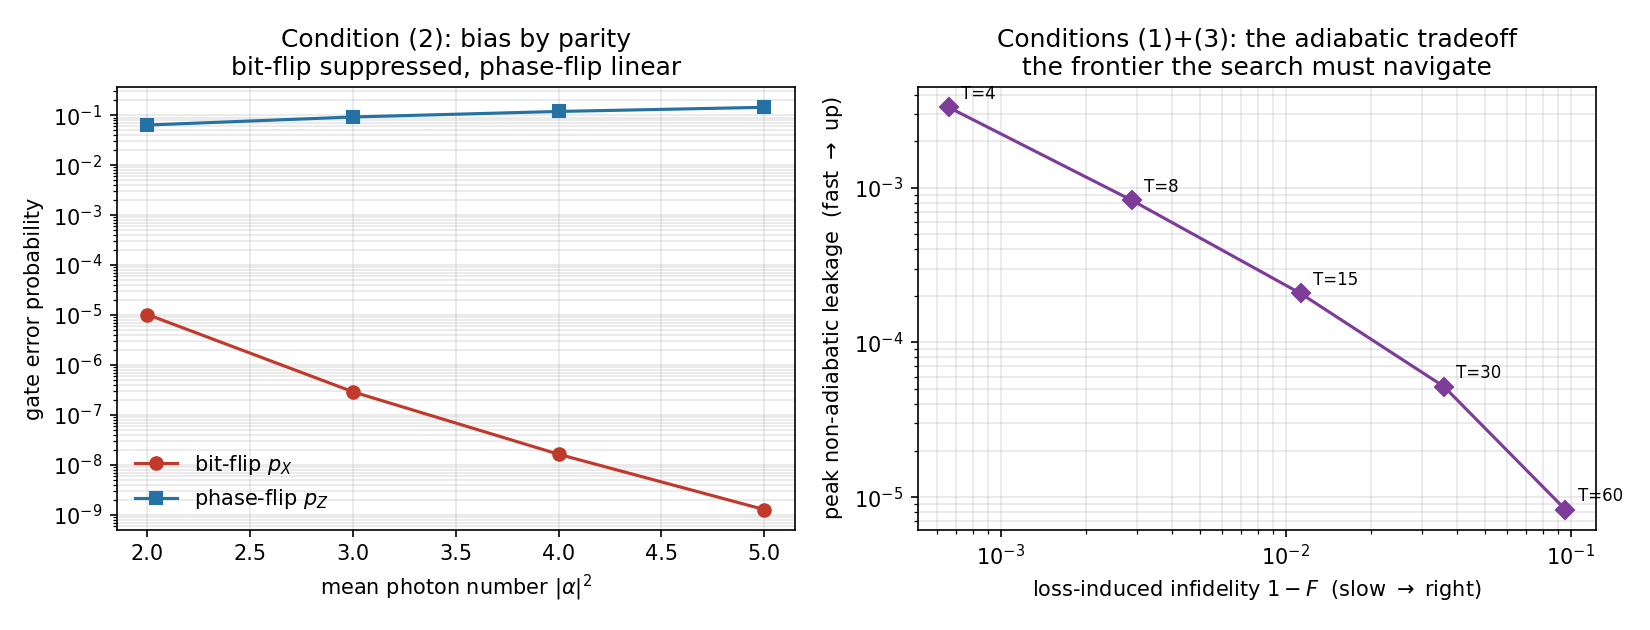
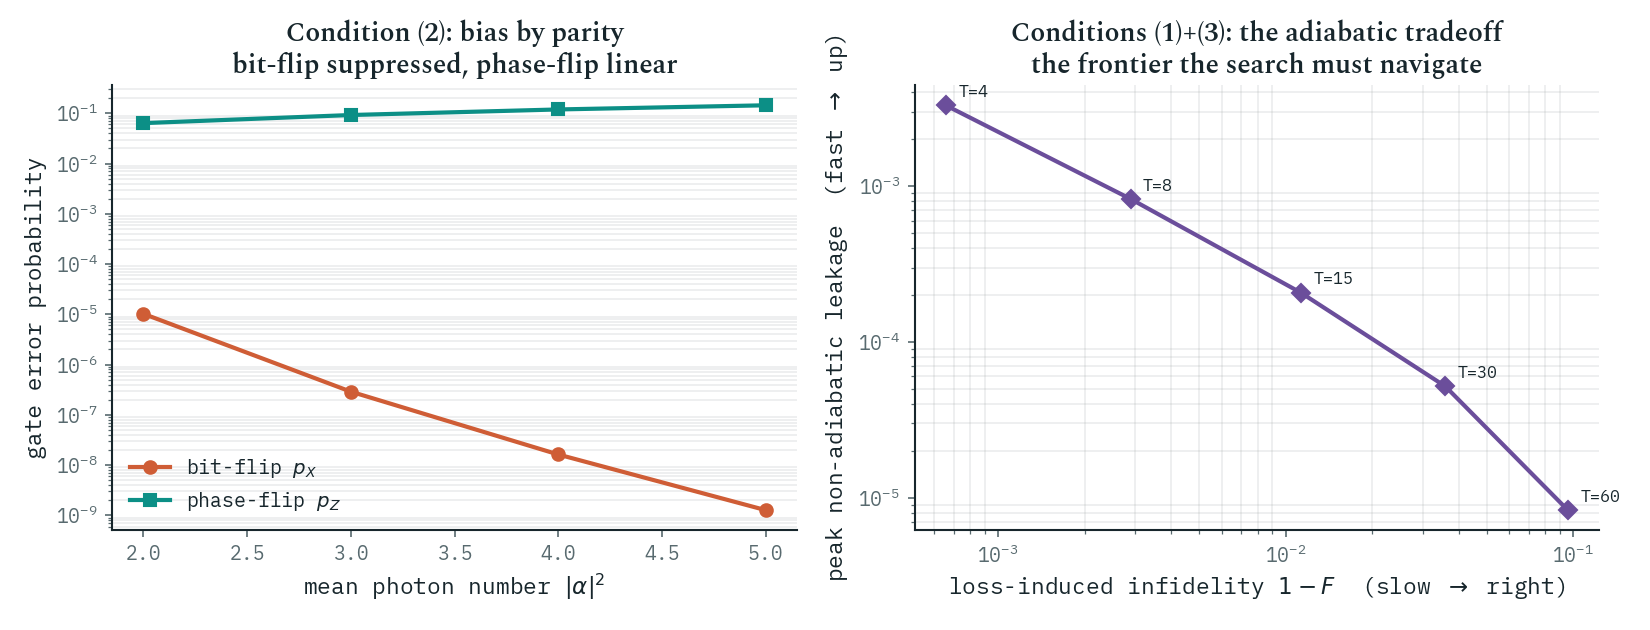
Brand-style figures and simplify: apply_dossier_style (IBM Plex Mono/Spectral, elevated palette, transparent bg), semantic colors (baseline=teal, AI-search=coral, tradeoff=violet); move overlap-prone in-plot prose into figure captions; correct stale red/blue color words to coral/teal; figure data un

diff --git a/paper.html b/paper.html
@@ -277,9 +277,9 @@
 <h2><span class="num">5</span>The search, and the result it honestly returned</h2>
 <p>Then we let an AI search loose with <em>more</em> freedom than any human design — two control knobs instead of one, finer pulse shaping, free timing — and, to make the test as hard as possible on ourselves, we <em>seeded it with the best human gate</em>, so it started from the human answer and could only try to improve.</p>
 <p>It couldn't. Across cat sizes, the search recovered the hand-designed gate and could not push the tolerable κ₁/κ₂ past it (a 4% wobble — noise). The hand-designed adiabatic gate, run as fast as it can go, already sits at the optimum of this control space.</p>
-<figure><img src="verification/phase-b/phase_b_frontier_map.png" alt="Frontier map: tolerable noise ratio versus cat size, with the AI search sitting on top of the hand-designed baseline"><figcaption>The mapped frontier: how bad a noise ratio a working gate tolerates, versus cat size. The AI search (red) lands on top of the hand-designed baseline (blue) — it scopes the wall precisely, but does not move it.</figcaption></figure>
+<figure><img src="verification/phase-b/phase_b_frontier_map.png" alt="Frontier map: tolerable noise ratio versus cat size, with the AI search sitting on top of the hand-designed baseline"><figcaption>The mapped frontier: how bad a noise ratio a working gate tolerates, versus cat size. The AI search (coral) lands on top of the hand-designed baseline (teal) &mdash; at &alpha;&sup2;=2 it recovers the hand-designed result (gain &times;1.04, with the bias-breaking quadrature &epsilon;<sub>y</sub> driven to zero), and at &alpha;&sup2;=3 it matches it exactly. At &alpha;&sup2;=4 the search is compute-bound (it needs N&ge;24 Fock states), so only the baseline is shown. It scopes the wall precisely, but does not move it.</figcaption></figure>
 <p>The telling part is <em>how</em> it failed. We had handed the search a tempting shortcut — a second control knob that could speed the gate up by quietly breaking the bias. A reward-hack would have seized it. Instead, because the scorecard makes bias-breaking worthless, the search drove that knob to <em>exactly zero</em> on its own and returned to the honest human gate. The instrument worked: cheating wasn't punished after the fact, it was made pointless, and the optimiser saw that.</p>
-<figure><img src="verification/phase-b/phase_b_negative.png" alt="The hand-designed baseline frontier rising as gate time shortens, with the AI search target above it unreached"><figcaption>The kept negative, in one picture. The hand-designed gate's reachable frontier (blue) rises as the gate runs faster; the AI search, given more freedom, cannot clear it. A clean "no" — and a precise map of where the wall sits.</figcaption></figure>
+<figure><img src="verification/phase-b/phase_b_negative.png" alt="The hand-designed baseline frontier rising as gate time shortens, with the AI search target above it unreached"><figcaption>The kept negative, in one picture. The hand-designed gate's reachable frontier (teal) rises as the gate runs faster; the dashed line marks the 1.5&times; target the search would need to clear. The shaped single-quadrature pulse cannot reach it &mdash; its best reachable frontier falls below the baseline (margin &minus;0.29), producing no valid gate that beats hand-design at this operating point. A clean &ldquo;no&rdquo; &mdash; and a precise map of where the wall sits.</figcaption></figure>
 <div class="openclaim"><span class="tag">Negative · kept · in-repo · phase-b</span>
 <p style="margin:6px 0 0;max-width:none">With two-quadrature control, finer shaping, and seeded from the hand-designed gate, an AI search does <em>not</em> beat the best hand-designed bias-preserving gate on κ₁/κ₂ (gain ≈ ×1.04; independently reproduced). Handed a bias-breaking degree of freedom, the search set it to exactly zero — the un-gameable scorecard made the shortcut worthless. Scope: single-mode Z(π/2), cat sizes n̄ = 2–3 fully searched, two-quadrature shaping, one validity bar; not yet CNOT, large cats, or dissipation-schedule shaping. A rigorous map and a kept negative — the project's guaranteed floor — not a defeat. Code: <span class="mono">verification/phase-b/</span>.</p></div>
 <p class="punch">Given more freedom than any human gate, and the human gate as its starting point, the AI's honest answer was: you already have the best one here. That "no" is the result.</p>

diff --git a/verification/phase-b/make_figure_phaseb.py b/verification/phase-b/make_figure_phaseb.py
@@ -1,28 +1,28 @@
 import numpy as np, matplotlib
 matplotlib.use("Agg"); import matplotlib.pyplot as plt
-import os
+import sys, os
+sys.path.insert(0, os.path.join(os.path.dirname(os.path.abspath(__file__)), '..'))  # so 'figure_style' is importable
+from figure_style import apply_dossier_style, TITLE_FONT
+plt = apply_dossier_style()
 
 T = np.array([2,3,4,5,6,8,10,12,16,20,25,30])
 fr = np.array([5.172,4.821,4.406,4.021,3.683,3.136,2.723,2.402,1.939,1.624,1.348,1.151])*1e-3
 r_base = 5.172e-3; r_star = 7.757e-3
 
 fig, ax = plt.subplots(figsize=(7.2, 4.6))
-ax.plot(T, fr, "o-", color="#2471a3", label="hand-designed constant-$\\epsilon$ baseline")
-ax.scatter([2],[r_base], s=120, facecolor="none", edgecolor="#2471a3", linewidth=2,
+ax.plot(T, fr, "o-", color="#0c8f86", label="hand-designed constant-$\\epsilon$ baseline")
+ax.scatter([2],[r_base], s=120, facecolor="none", edgecolor="#0c8f86", linewidth=2,
            zorder=5, label=f"best baseline = {r_base:.2e} (T=2)")
-ax.axhline(r_star, ls="--", color="#c0392b", lw=1.5,
+ax.axhline(r_star, ls="--", color="#cf5d36", lw=1.5,
            label=f"search target (1.5x) = {r_star:.2e}")
-ax.scatter([1.5],[r_star], marker="x", s=120, color="#c0392b", zorder=5)
-ax.annotate("shaped-pulse search:\nbest reachable < baseline\n(margin -0.29, NOT valid here)",
-            (1.5, r_star), textcoords="offset points", xytext=(28, -6),
-            fontsize=9, color="#c0392b",
-            arrowprops=dict(arrowstyle="->", color="#c0392b"))
+ax.scatter([1.5],[r_star], marker="x", s=120, color="#cf5d36", zorder=5)
 ax.set_xlabel("gate time  $T \\cdot \\kappa_2$")
 ax.set_ylabel("tolerable noise ratio  $\\kappa_1/\\kappa_2$  (frontier)")
 ax.set_title("Phase B (preliminary): shaped single-quadrature pulse does NOT\n"
-             "beat the T-optimized hand-designed gate  ($\\alpha^2=2$, K=5)")
+             "beat the T-optimized hand-designed gate  ($\\alpha^2=2$, K=5)", fontfamily=TITLE_FONT)
 ax.legend(frameon=False, fontsize=9, loc="upper right")
-ax.grid(alpha=0.3)
+ax.grid()
+ax.set_ylim(top=8.4e-3)
 fig.tight_layout()
 out = os.path.join(os.path.dirname(os.path.abspath(__file__)),
                    "phase_b_negative.png")

diff --git a/verification/phase-b/make_frontier_map.py b/verification/phase-b/make_frontier_map.py
@@ -1,32 +1,29 @@
 import numpy as np, matplotlib, os
 matplotlib.use("Agg"); import matplotlib.pyplot as plt
+import sys
+sys.path.insert(0, os.path.join(os.path.dirname(os.path.abspath(__file__)), '..'))  # so 'figure_style' is importable
+from figure_style import apply_dossier_style, TITLE_FONT
+plt = apply_dossier_style()
 
 a2 = np.array([2, 3, 4])
 base = np.array([5.17, 3.99, 3.19]) * 1e-3          # hand-designed, T-optimized, converged N
 search = np.array([5.38, 3.99, np.nan]) * 1e-3      # two-quad seeded search (a2=4 compute-bound)
 
 fig, ax = plt.subplots(figsize=(7.4, 4.7))
-ax.plot(a2, base, "o-", color="#2471a3", lw=2, ms=9,
+ax.plot(a2, base, "o-", color="#0c8f86", lw=2, ms=9,
         label="hand-designed gate (T-optimized)")
-ax.plot(a2[:2], search[:2], "s--", color="#c0392b", ms=8,
+ax.plot(a2[:2], search[:2], "s--", color="#cf5d36", ms=8,
         label="AI search (2-quadrature, seeded)")
 for x, b in zip(a2, base):
     ax.annotate(f"{b*1e3:.2f}e-3", (x, b), textcoords="offset points",
-                xytext=(0, 10), ha="center", fontsize=9, color="#2471a3")
-ax.annotate("search recovers hand-design\n(gain x1.04; $\\epsilon_y\\!\\to\\!0$)",
-            (2, 5.38e-3), textcoords="offset points", xytext=(20, 18),
-            fontsize=9, color="#c0392b",
-            arrowprops=dict(arrowstyle="->", color="#c0392b"))
-ax.annotate("$\\alpha^2{=}4$ search compute-bound\n(needs N$\\geq$24); baseline shown",
-            (4, 3.19e-3), textcoords="offset points", xytext=(-150, -34),
-            fontsize=8.5, color="#666")
+                xytext=(0, -16), ha="center", fontsize=9, color="#0c8f86")
 ax.set_xticks([2, 3, 4])
 ax.set_xlabel("cat size  $\\alpha^2$  (mean photon number)")
 ax.set_ylabel("tolerable noise ratio  $\\kappa_1/\\kappa_2$  (gate-validity frontier)")
 ax.set_title("Phase B result: AI search maps the bias-preserving Z($\\pi/2$) frontier\n"
-             "but does not push it past hand-design  (kept negative)")
+             "but does not push it past hand-design  (kept negative)", fontfamily=TITLE_FONT)
 ax.legend(frameon=False, loc="upper right")
-ax.grid(alpha=0.3); ax.set_ylim(2.5e-3, 6e-3)
+ax.grid(); ax.set_ylim(2.5e-3, 6e-3)
 fig.tight_layout()
 out = os.path.join(os.path.dirname(os.path.abspath(__file__)), "phase_b_frontier_map.png")
 fig.savefig(out, dpi=150); print("saved", out)

diff --git a/verification/gate-metric/make_figure.py b/verification/gate-metric/make_figure.py
@@ -3,8 +3,11 @@ import numpy as np
 import matplotlib
 matplotlib.use("Agg")
 import matplotlib.pyplot as plt
+import sys, os
+sys.path.insert(0, os.path.join(os.path.dirname(os.path.abspath(__file__)), '..'))  # so 'figure_style' is importable
+from figure_style import apply_dossier_style, TITLE_FONT
+plt = apply_dossier_style()
 from gate_metric_validation import measure_gate
-import os
 
 kappa2 = 1.0
 eps = 0.05 * kappa2
@@ -27,21 +30,21 @@ for epsr, Tr in speeds:
 
 fig, (ax1, ax2) = plt.subplots(1, 2, figsize=(11, 4.2))
 
-ax1.semilogy(a2s, pX, "o-", label=r"bit-flip $p_X$", color="#c0392b")
-ax1.semilogy(a2s, pZ, "s-", label=r"phase-flip $p_Z$", color="#2471a3")
+ax1.semilogy(a2s, pX, "o-", label=r"bit-flip $p_X$", color="#cf5d36")
+ax1.semilogy(a2s, pZ, "s-", label=r"phase-flip $p_Z$", color="#0c8f86")
 ax1.set_xlabel(r"mean photon number $|\alpha|^2$")
 ax1.set_ylabel("gate error probability")
-ax1.set_title("Condition (2): bias by parity\nbit-flip suppressed, phase-flip linear")
-ax1.legend(frameon=False); ax1.grid(alpha=0.3, which="both")
+ax1.set_title("Condition (2): bias by parity\nbit-flip suppressed, phase-flip linear", fontfamily=TITLE_FONT)
+ax1.legend(frameon=False); ax1.grid(which="both")
 
-ax2.loglog(infid, leak_peak, "D-", color="#7d3c98")
+ax2.loglog(infid, leak_peak, "D-", color="#6b4e9b")
 for (epsr, Tr), x, y in zip(speeds, infid, leak_peak):
     ax2.annotate(f"T={Tr}", (x, y), textcoords="offset points",
                  xytext=(6, 4), fontsize=8)
 ax2.set_xlabel(r"loss-induced infidelity $1-F$  (slow $\rightarrow$ right)")
 ax2.set_ylabel(r"peak non-adiabatic leakage  (fast $\rightarrow$ up)")
-ax2.set_title("Conditions (1)+(3): the adiabatic tradeoff\nthe frontier the search must navigate")
-ax2.grid(alpha=0.3, which="both")
+ax2.set_title("Conditions (1)+(3): the adiabatic tradeoff\nthe frontier the search must navigate", fontfamily=TITLE_FONT)
+ax2.grid(which="both")
 
 fig.tight_layout()
 _out = os.path.join(os.path.dirname(os.path.abspath(__file__)),